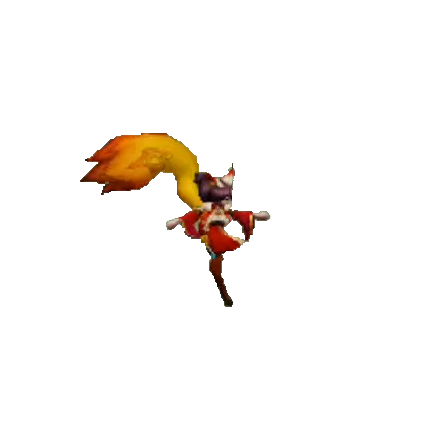
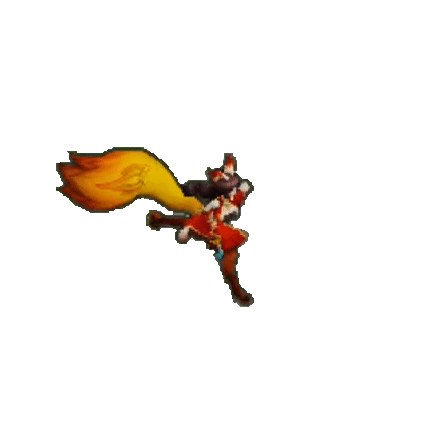
change to 30 frames per second

Changed region(s): [[0.1209, 0.3023, 0.6349, 0.7256]]

diff --git a/Classes/Scene/LoadingScene.cpp b/Classes/Scene/LoadingScene.cpp
@@ -7,7 +7,6 @@ cocos2d::Scene* LoadingScene::createScene()
 	return LoadingScene::create();
 }
 
-
 bool LoadingScene::init()
 {
 	if (!Scene::init())
@@ -152,42 +151,65 @@ void LoadingScene::LoadingAnimation()
 	heroName = "YaSe";
 
 	auto animation_16 = Animation::create();
-	animation_16->addSpriteFrameWithFileName(StringUtils::format("pictures\\hero\\%s\\%sup1.png", heroName.getCString(), heroName.getCString()));
-	animation_16->addSpriteFrameWithFileName(StringUtils::format("pictures\\hero\\%s\\%sup2.png", heroName.getCString(), heroName.getCString()));
+	for (int i = 1; i <= 4; ++i)
+	{
+		animation_16->addSpriteFrameWithFileName(StringUtils::format("pictures\\hero\\%s\\%sup%d.png", heroName.getCString(), heroName.getCString(), i));
+	}
 	AnimationCache::getInstance()->addAnimation(animation_16, StringUtils::format("%sMoveUp", heroName.getCString()));
 
 	auto animation_17 = Animation::create();
-	animation_17->addSpriteFrameWithFileName(StringUtils::format("pictures\\hero\\%s\\%supLeft1.png", heroName.getCString(), heroName.getCString()));
+	for (int i = 1; i <= 4; ++i)
+	{
+		animation_17->addSpriteFrameWithFileName(StringUtils::format("pictures\\hero\\%s\\%supLeft%d.png", heroName.getCString(), heroName.getCString(), i));
+	}
 	animation_17->addSpriteFrameWithFileName(StringUtils::format("pictures\\hero\\%s\\%supLeft2.png", heroName.getCString(), heroName.getCString()));
 	AnimationCache::getInstance()->addAnimation(animation_17, StringUtils::format("%sMoveUpLeft", heroName.getCString()));
 
 	auto animation_18 = Animation::create();
-	animation_18->addSpriteFrameWithFileName(StringUtils::format("pictures\\hero\\%s\\%supRight1.png", heroName.getCString(), heroName.getCString()));
+	for (int i = 1; i <= 4; ++i)
+	{
+		animation_18->addSpriteFrameWithFileName(StringUtils::format("pictures\\hero\\%s\\%supRight%d.png", heroName.getCString(), heroName.getCString(), i));
+	}
 	animation_18->addSpriteFrameWithFileName(StringUtils::format("pictures\\hero\\%s\\%supRight2.png", heroName.getCString(), heroName.getCString()));
 	AnimationCache::getInstance()->addAnimation(animation_18, StringUtils::format("%sMoveUpRight", heroName.getCString()));
 
 	auto animation_19 = Animation::create();
-	animation_19->addSpriteFrameWithFileName(StringUtils::format("pictures\\hero\\%s\\%sleft1.png", heroName.getCString(), heroName.getCString()));
+	for (int i = 1; i <= 4; ++i)
+	{
+		animation_19->addSpriteFrameWithFileName(StringUtils::format("pictures\\hero\\%s\\%sleft%d.png", heroName.getCString(), heroName.getCString(), i));
+	}
 	animation_19->addSpriteFrameWithFileName(StringUtils::format("pictures\\hero\\%s\\%sleft2.png", heroName.getCString(), heroName.getCString()));
 	AnimationCache::getInstance()->addAnimation(animation_19, StringUtils::format("%sMoveLeft", heroName.getCString()));
 
 	auto animation_20 = Animation::create();
-	animation_20->addSpriteFrameWithFileName(StringUtils::format("pictures\\hero\\%s\\%sright1.png", heroName.getCString(), heroName.getCString()));
+	for (int i = 1; i <= 4; ++i)
+	{
+		animation_20->addSpriteFrameWithFileName(StringUtils::format("pictures\\hero\\%s\\%sright%d.png", heroName.getCString(), heroName.getCString(), i));
+	}
 	animation_20->addSpriteFrameWithFileName(StringUtils::format("pictures\\hero\\%s\\%sright2.png", heroName.getCString(), heroName.getCString()));
 	AnimationCache::getInstance()->addAnimation(animation_20, StringUtils::format("%sMoveRight", heroName.getCString()));
 
 	auto animation_21 = Animation::create();
-	animation_21->addSpriteFrameWithFileName(StringUtils::format("pictures\\hero\\%s\\%sdown1.png", heroName.getCString(), heroName.getCString()));
+	for (int i = 1; i <= 4; ++i)
+	{
+		animation_21->addSpriteFrameWithFileName(StringUtils::format("pictures\\hero\\%s\\%sdown%d.png", heroName.getCString(), heroName.getCString(), i));
+	}
 	animation_21->addSpriteFrameWithFileName(StringUtils::format("pictures\\hero\\%s\\%sdown2.png", heroName.getCString(), heroName.getCString()));
 	AnimationCache::getInstance()->addAnimation(animation_21, StringUtils::format("%sMoveDown", heroName.getCString()));
 
 	auto animation_22 = Animation::create();
-	animation_22->addSpriteFrameWithFileName(StringUtils::format("pictures\\hero\\%s\\%sdownLeft1.png", heroName.getCString(), heroName.getCString()));
+	for (int i = 1; i <= 4; ++i)
+	{
+		animation_22->addSpriteFrameWithFileName(StringUtils::format("pictures\\hero\\%s\\%sdownLeft%d.png", heroName.getCString(), heroName.getCString(), i));
+	}
 	animation_22->addSpriteFrameWithFileName(StringUtils::format("pictures\\hero\\%s\\%sdownLeft2.png", heroName.getCString(), heroName.getCString()));
 	AnimationCache::getInstance()->addAnimation(animation_22, StringUtils::format("%sMoveDownLeft", heroName.getCString()));
 
 	auto animation_23 = Animation::create();
-	animation_23->addSpriteFrameWithFileName(StringUtils::format("pictures\\hero\\%s\\%sdownRight1.png", heroName.getCString(), heroName.getCString()));
+	for (int i = 1; i <= 4; ++i)
+	{
+		animation_23->addSpriteFrameWithFileName(StringUtils::format("pictures\\hero\\%s\\%sdownRight%d.png", heroName.getCString(), heroName.getCString(), i));
+	}
 	animation_23->addSpriteFrameWithFileName(StringUtils::format("pictures\\hero\\%s\\%sdownRight2.png", heroName.getCString(), heroName.getCString()));
 	AnimationCache::getInstance()->addAnimation(animation_23, StringUtils::format("%sMoveDownRight", heroName.getCString()));
 
@@ -258,43 +280,59 @@ void LoadingScene::LoadingAnimation()
 	heroName = "DaJi";
 
 	auto animation_32 = Animation::create();
-	animation_32->addSpriteFrameWithFileName(StringUtils::format("pictures\\hero\\%s\\%supLeft1.png", heroName.getCString(), heroName.getCString()));
-	animation_32->addSpriteFrameWithFileName(StringUtils::format("pictures\\hero\\%s\\%supLeft2.png", heroName.getCString(), heroName.getCString()));
+	for (int i = 1; i <= 4; ++i)
+	{
+		animation_32->addSpriteFrameWithFileName(StringUtils::format("pictures\\hero\\%s\\%supLeft%d.png", heroName.getCString(), heroName.getCString(), i));
+	}
 	AnimationCache::getInstance()->addAnimation(animation_32, StringUtils::format("%sMoveUpLeft", heroName.getCString()));
 
 	auto animation_33 = Animation::create();
-	animation_33->addSpriteFrameWithFileName(StringUtils::format("pictures\\hero\\%s\\%supRight1.png", heroName.getCString(), heroName.getCString()));
-	animation_33->addSpriteFrameWithFileName(StringUtils::format("pictures\\hero\\%s\\%supRight2.png", heroName.getCString(), heroName.getCString()));
+	for (int i = 1; i <= 4; ++i)
+	{
+		animation_33->addSpriteFrameWithFileName(StringUtils::format("pictures\\hero\\%s\\%supRight%d.png", heroName.getCString(), heroName.getCString(), i));
+	}
 	AnimationCache::getInstance()->addAnimation(animation_33, StringUtils::format("%sMoveUpRight", heroName.getCString()));
 
 	auto animation_34 = Animation::create();
-	animation_34->addSpriteFrameWithFileName(StringUtils::format("pictures\\hero\\%s\\%sleft1.png", heroName.getCString(), heroName.getCString()));
-	animation_34->addSpriteFrameWithFileName(StringUtils::format("pictures\\hero\\%s\\%sleft2.png", heroName.getCString(), heroName.getCString()));
+	for (int i = 1; i <= 4; ++i)
+	{
+		animation_34->addSpriteFrameWithFileName(StringUtils::format("pictures\\hero\\%s\\%sleft%d.png", heroName.getCString(), heroName.getCString(), i));
+	}
 	AnimationCache::getInstance()->addAnimation(animation_34, StringUtils::format("%sMoveLeft", heroName.getCString()));
 
 	auto animation_35 = Animation::create();
-	animation_35->addSpriteFrameWithFileName(StringUtils::format("pictures\\hero\\%s\\%sright1.png", heroName.getCString(), heroName.getCString()));
-	animation_35->addSpriteFrameWithFileName(StringUtils::format("pictures\\hero\\%s\\%sright2.png", heroName.getCString(), heroName.getCString()));
+	for (int i = 1; i <= 4; ++i)
+	{
+		animation_35->addSpriteFrameWithFileName(StringUtils::format("pictures\\hero\\%s\\%sright%d.png", heroName.getCString(), heroName.getCString(), i));
+	}
 	AnimationCache::getInstance()->addAnimation(animation_35, StringUtils::format("%sMoveRight", heroName.getCString()));
 
 	auto animation_36 = Animation::create();
-	animation_36->addSpriteFrameWithFileName(StringUtils::format("pictures\\hero\\%s\\%sdown1.png", heroName.getCString(), heroName.getCString()));
-	animation_36->addSpriteFrameWithFileName(StringUtils::format("pictures\\hero\\%s\\%sdown2.png", heroName.getCString(), heroName.getCString()));
+	for (int i = 1; i <= 4; ++i)
+	{
+		animation_36->addSpriteFrameWithFileName(StringUtils::format("pictures\\hero\\%s\\%sdown%d.png", heroName.getCString(), heroName.getCString(), i));
+	}
 	AnimationCache::getInstance()->addAnimation(animation_36, StringUtils::format("%sMoveDown", heroName.getCString()));
 
 	auto animation_37 = Animation::create();
-	animation_37->addSpriteFrameWithFileName(StringUtils::format("pictures\\hero\\%s\\%sdownLeft1.png", heroName.getCString(), heroName.getCString()));
-	animation_37->addSpriteFrameWithFileName(StringUtils::format("pictures\\hero\\%s\\%sdownLeft2.png", heroName.getCString(), heroName.getCString()));
+	for (int i = 1; i <= 4; ++i)
+	{
+		animation_37->addSpriteFrameWithFileName(StringUtils::format("pictures\\hero\\%s\\%sdownLeft%d.png", heroName.getCString(), heroName.getCString(), i));
+	}
 	AnimationCache::getInstance()->addAnimation(animation_37, StringUtils::format("%sMoveDownLeft", heroName.getCString()));
 
 	auto animation_38 = Animation::create();
-	animation_38->addSpriteFrameWithFileName(StringUtils::format("pictures\\hero\\%s\\%sdownRight1.png", heroName.getCString(), heroName.getCString()));
-	animation_38->addSpriteFrameWithFileName(StringUtils::format("pictures\\hero\\%s\\%sdownRight2.png", heroName.getCString(), heroName.getCString()));
+	for (int i = 1; i <= 4; ++i)
+	{
+		animation_38->addSpriteFrameWithFileName(StringUtils::format("pictures\\hero\\%s\\%sdownRight%d.png", heroName.getCString(), heroName.getCString(), i));
+	}
 	AnimationCache::getInstance()->addAnimation(animation_38, StringUtils::format("%sMoveDownRight", heroName.getCString()));
 
 	auto animation_39 = Animation::create();
-	animation_39->addSpriteFrameWithFileName(StringUtils::format("pictures\\hero\\%s\\%sup1.png", heroName.getCString(), heroName.getCString()));
-	animation_39->addSpriteFrameWithFileName(StringUtils::format("pictures\\hero\\%s\\%sup2.png", heroName.getCString(), heroName.getCString()));
+	for (int i = 1; i <= 4; ++i)
+	{
+		animation_39->addSpriteFrameWithFileName(StringUtils::format("pictures\\hero\\%s\\%sup%d.png", heroName.getCString(), heroName.getCString(), i));
+	}
 	AnimationCache::getInstance()->addAnimation(animation_39, StringUtils::format("%sMoveUp", heroName.getCString()));
 
 	auto animation_40 = Animation::create();

diff --git a/Classes/Hero/YaSe.cpp b/Classes/Hero/YaSe.cpp
@@ -242,13 +242,18 @@ void YaSe::castSkill_3()
 			_magicComp->changeStateBy(-1 * _magicConsume_3);
 			_standingAngle = MyMath::getRad(getPosition(), attackHero->getPosition());
 			updateDirection();
+			auto delta = attackHero->getPosition() - getPosition();
 			auto action = Sequence::create
 			(
-				MoveTo::create(0.2, attackHero->getPosition()),
+				MoveBy::create(0.2, delta),
 				CallFunc::create(CC_CALLBACK_0(YaSe::playAttackAnimation, this)),
 				NULL
 			);
 			runAction(action);
+			if (this == _combatScene->getMyHero())
+			{
+				_combatScene->getMap()->runAction(MoveBy::create(0.2, -1 * delta));
+			}
 
 			auto damage = attackHero->getHealthComp()->getMaxState() * (0.1 + 0.05 * _skillLevel_3);
 			_combatScene->_damages.push_back(Damage(damage, this, attackHero, EDamageType::MAGIC_DAMAGE, 0.2 + _minAttackInterval / 2));

diff --git a/Classes/Const/Constant.h b/Classes/Const/Constant.h
@@ -4,6 +4,8 @@
 
 #include "cocos2d.h"
 
+#define FRAMES_PER_SECOND             30
+
 #define ORIGIN_RADIUS				  700
 #define ORIGIN_INTERVAL				  0.2
 #define PRESS						  1
@@ -34,8 +36,8 @@
 #define REMOTE_GOLD					  20
 #define REMOTE_EXP					  50
 
-#define BLUE_HERO_BIRTHPLACE          Point(540, 360)
-#define RED_HERO_BIRTHPLACE           Point(540, 360)
+#define BLUE_HERO_BIRTHPLACE          Point(340, 260)
+#define RED_HERO_BIRTHPLACE           Point(6040, 1276)
 
 #define MIN_DEGREE_IN_RAD             0.3926991
 
@@ -215,7 +217,7 @@ namespace MyMath
 
 	inline Vec2 calculatePositionDelta(float angle, float speed)
 	{
-		return Vec2(cos(angle) * speed / 60, sin(angle) * speed / 60);
+		return Vec2(cos(angle) * speed / FRAMES_PER_SECOND, sin(angle) * speed / FRAMES_PER_SECOND);
 	}
 };
 

diff --git a/Classes/AppDelegate.cpp b/Classes/AppDelegate.cpp
@@ -1,6 +1,7 @@
 #include "AppDelegate.h"
 #include "Scene/HelloWorldScene.h"
 #include "Scene/LoadingScene.h"
+#include "Const/Constant.h"
 // #define USE_AUDIO_ENGINE 1
 // #define USE_SIMPLE_AUDIO_ENGINE 1
 
@@ -70,7 +71,7 @@ bool AppDelegate::applicationDidFinishLaunching() {
     director->setDisplayStats(true);
 
     // set FPS. the default value is 1.0/60 if you don't call this
-    director->setAnimationInterval(1.0f / 60);
+    director->setAnimationInterval(1.0f / FRAMES_PER_SECOND);
 
     // Set the design resolution
     glview->setDesignResolutionSize(designResolutionSize.width, designResolutionSize.height, ResolutionPolicy::NO_BORDER);

diff --git a/Classes/Actor/Projectile.cpp b/Classes/Actor/Projectile.cpp
@@ -43,7 +43,7 @@ void Projectile::calculatePosition()
 	auto dx = delta.x;
 	auto dy = delta.y;
 	setRotation(360 - MyMath::getRad(getPosition(), _target->getPosition()) / M_PI * 180);
-	setPosition(getPosition() + Vec2(dx / distance * _speed / 60, dy / distance * _speed / 60));
+	setPosition(getPosition() + Vec2(dx / distance * _speed / FRAMES_PER_SECOND, dy / distance * _speed / FRAMES_PER_SECOND));
 }
 
 float Projectile::calculateDistance() const

diff --git a/Classes/Component/Record.cpp b/Classes/Component/Record.cpp
@@ -16,7 +16,7 @@ bool Record::init()
 
 	initLabel();
 
-	schedule(schedule_selector(Record::updateMoney), 1.f, -1, 1.f);
+	schedule(schedule_selector(Record::updateMoney), 2.f, -1, 1.f);
 
 	return true;
 }
